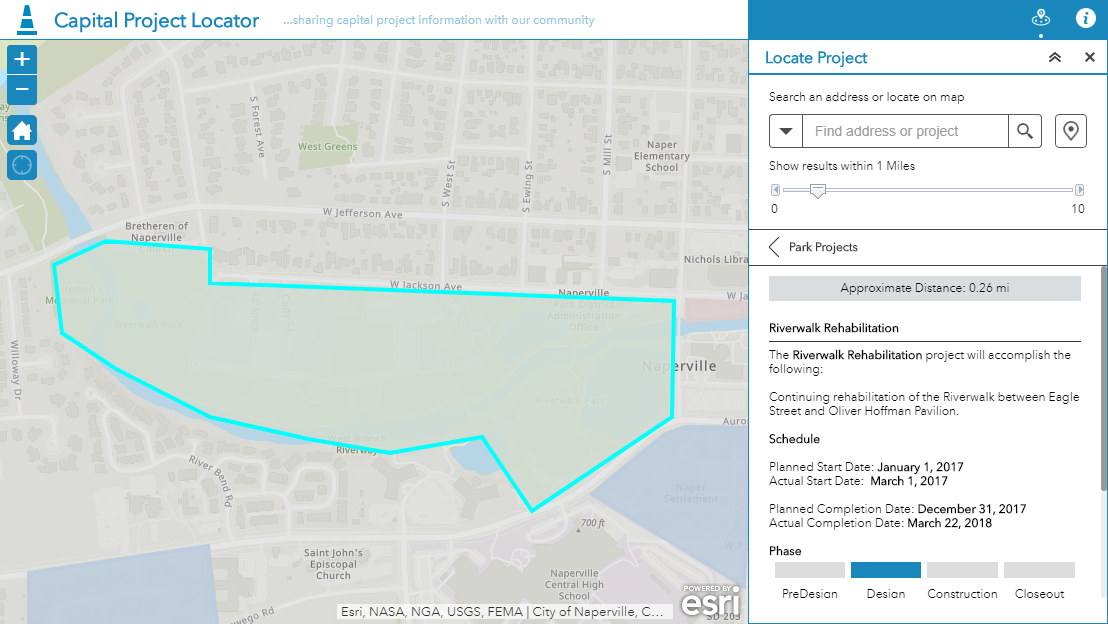
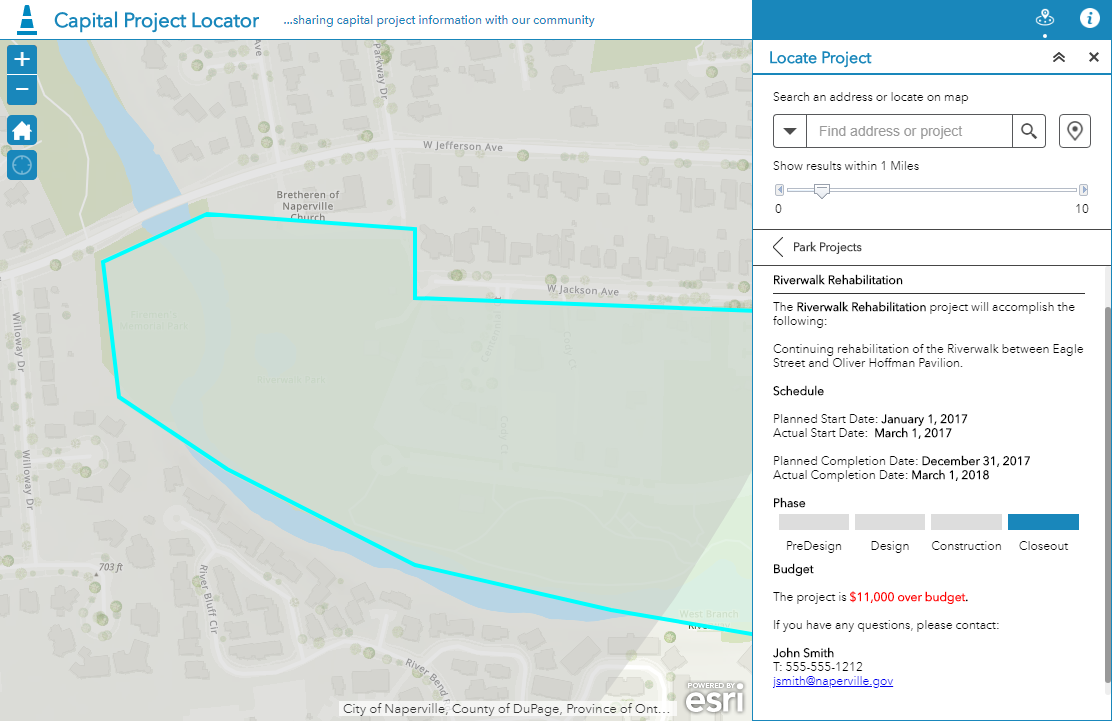
Add sample to style the difference between 2 numeric fields.

diff --git a/popup/numeric-difference.md b/popup/numeric-difference.md
@@ -1,0 +1,57 @@
+
+# Style the difference between 2 numeric fields
+
+This example shows how to show the difference between 2 fields and style the value depending on if it is positive or negative.
+
+## Use cases
+
+This is designed specifically for the popup profile. In the example below we are highlighting if a project is over or under budget by displaying if a project's actual cost is over or under the original estimated cost. This same logic could be applied to any scenario where you need to dynamically show the difference between two numeric fields and style them differently depending on if the value is positive or negative.
+
+## Workflow
+
+Copy and paste the expression found in the expression template below to the Arcade editor in ArcGIS Online, the relevant location in ArcGIS Pro, or the relevant location in a custom app.
+
+To configure the script to your layer, you must replace the FIELD1 and FIELD2 variables with the fields containing the numeric values in your layer. You can also update the format string in the Text function to control how the resulting value is formatted. 
+
+## Expression Template
+
+For example, in a layer with a field called ACTCOST representing the actual cost of a project and a field called ESTCOST represing the original estimated cost, you would replace this:
+
+```js
+// Update the text formatting as needed.
+IIF($feature.FIELD1 <= $feature.FIELD2, Text($feature.FIELD1 - $feature.FIELD2), '#,###.##'), null)
+```
+
+With something like the following:
+
+```js
+IIF($feature.ACTCOST <= $feature.ESTCOST, Text(Abs($feature.ACTCOST - $feature.ESTCOST), '$#,###')  + ' under budget', null)
+```
+
+The expression above will return a value if the first field is less than or equal to the second field otherwise it will return null. In this scenario this represents a project that is under budget. We need to add another attribute expression for when the first field is greater than the second field or over budget. To do this, you would replace this:
+
+```js
+// Update the text formatting as needed.
+IIF($feature.FIELD1 > $feature.FIELD2, Text($feature.FIELD1 - $feature.FIELD2), '#,###.##'), null)
+```
+
+With something like the following:
+
+```js
+IIF($feature.ACTCOST > $feature.ESTCOST, Text(Abs($feature.ACTCOST - $feature.ESTCOST), '$#,###') + ' over budget', null)
+```
+
+## HTML Template
+
+Next you will need to configure the pop-up with a custom attribute display. Click the View HTML source button and add the following HTML. You will want to update the expression references to correspond to the 2 expressions you created above. In this scenario we are styling under budget with a green font color and over budget with a red font color. You can customize this to fit your scenario. When an expression returns a null value it will not display this means that only one of the expressions below will display for any given feature.
+
+```html
+The project is <font color="#228b22">{expression/expr0}</font><font color="#ff0000">{expression/expr1}</font>
+
+```
+
+## Example output
+
+See the [Capital Project Locator](http://links.esri.com/localgovernment/tryit/CapitalProjectLocator) application for an example of how this expression is used in ArcGIS Online.
+
+[![over-under-budget](./images/project-phase.png)](http://links.esri.com/localgovernment/tryit/CapitalProjectLocator)

diff --git a/popup/README.md b/popup/README.md
@@ -14,6 +14,7 @@ See the list below for shared expressions.
 * [Dynamically create a hyperlink](./url-basic.md)
 * [Project phase table](./project-phase.md)
 * [Dynamically create a hyperlink with latitude and longitude values](./url-withlocation.md)
+* [Style the difference between 2 numeric fields](./numeric-difference.md)
 
 ## Resources
 
